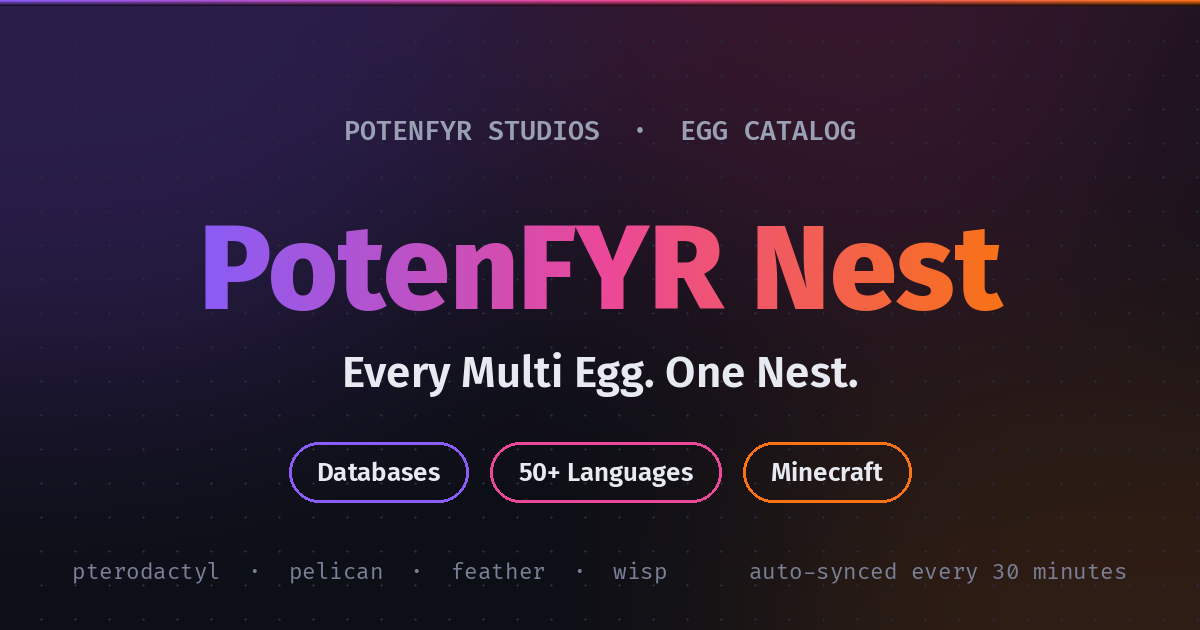
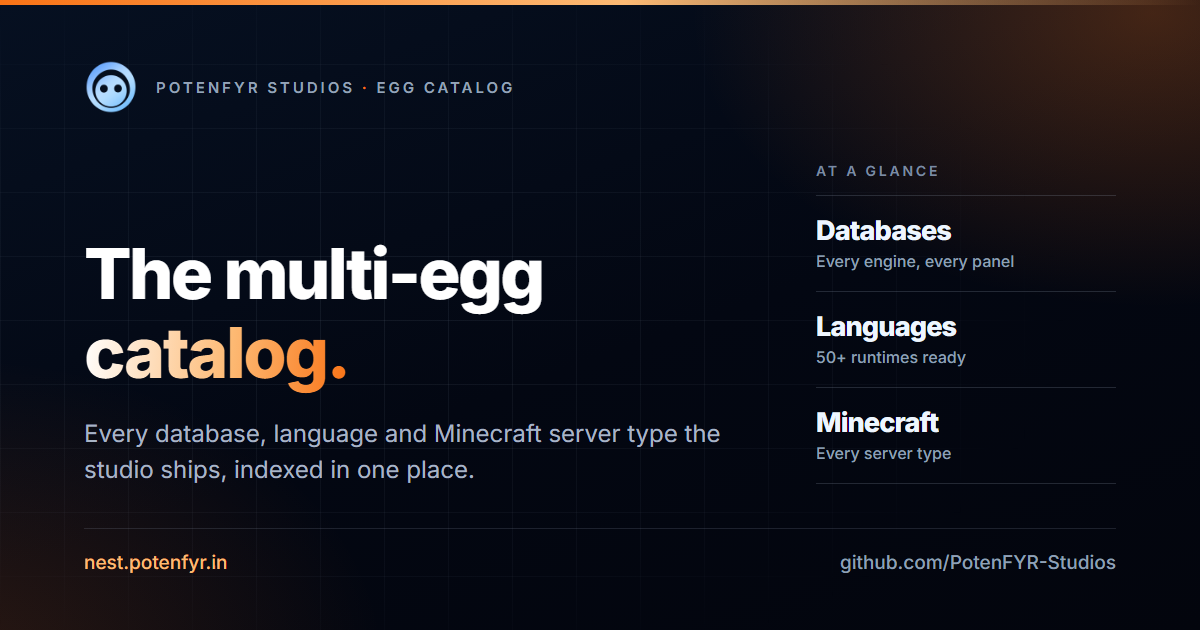
feat(site): redesigned OG card rendered from a committed script

diff --git a/scripts/og/card.html b/scripts/og/card.html
@@ -1,0 +1,199 @@
+<!doctype html>
+<html lang="en">
+  <head>
+    <meta charset="utf-8" />
+    <title>potenfyr-nest link preview</title>
+    <!--
+      Shared template for PotenFYR Studios project OG cards.
+      Edit only the CONFIG block below; the layout stays identical across the org
+      so every project's link preview reads as one family.
+      Render with: bun run og:image  (scripts/og/build-og.mjs)
+    -->
+    <link rel="preconnect" href="https://fonts.googleapis.com" />
+    <link rel="preconnect" href="https://fonts.gstatic.com" crossorigin />
+    <link
+      href="https://fonts.googleapis.com/css2?family=Inter:wght@400;500;600;700;800&display=swap"
+      rel="stylesheet"
+    />
+    <style>
+      /* ---------------- CONFIG ---------------- */
+      :root {
+        --accent: #f97316;         /* project accent, matches the docs site */
+        --accent-soft: #fdba74;    /* lighter tint of --accent */
+      }
+      /* ---------------- /CONFIG --------------- */
+
+      * { box-sizing: border-box; margin: 0; padding: 0; }
+      html, body { width: 1200px; height: 630px; overflow: hidden; }
+      body {
+        font-family: 'Inter', 'Segoe UI', system-ui, sans-serif;
+        background: #030712;
+        color: #fff;
+        -webkit-font-smoothing: antialiased;
+      }
+
+      .card {
+        position: relative;
+        width: 1200px;
+        height: 630px;
+        padding: 60px 84px 56px;
+        display: flex;
+        flex-direction: column;
+        background:
+          radial-gradient(720px 460px at 96% 2%, color-mix(in srgb, var(--accent) 26%, transparent), transparent 64%),
+          radial-gradient(700px 500px at -4% 106%, color-mix(in srgb, var(--accent) 16%, transparent), transparent 62%),
+          linear-gradient(160deg, #061021 0%, #030712 54%, #03050d 100%);
+        overflow: hidden;
+      }
+
+      .grid {
+        position: absolute;
+        inset: 0;
+        background-image:
+          linear-gradient(to right, rgba(148, 163, 184, 0.10) 1px, transparent 1px),
+          linear-gradient(to bottom, rgba(148, 163, 184, 0.10) 1px, transparent 1px);
+        background-size: 64px 64px;
+        -webkit-mask-image: radial-gradient(780px 430px at 32% 50%, #000 0%, rgba(0, 0, 0, 0.5) 60%, transparent 88%);
+        mask-image: radial-gradient(780px 430px at 32% 50%, #000 0%, rgba(0, 0, 0, 0.5) 60%, transparent 88%);
+      }
+
+      .edge {
+        position: absolute;
+        top: 0; left: 0; right: 0;
+        height: 5px;
+        background: linear-gradient(90deg, var(--accent) 0%, var(--accent-soft) 52%, transparent 100%);
+      }
+
+      .content { position: relative; z-index: 2; display: flex; flex-direction: column; height: 100%; }
+
+      .lockup { display: flex; align-items: center; gap: 18px; }
+      .lockup img { width: 54px; height: 54px; display: block; }
+      .lockup .studio {
+        font-size: 15px;
+        font-weight: 600;
+        letter-spacing: 0.2em;
+        text-transform: uppercase;
+        color: #94a3b8;
+      }
+      .lockup .studio em { font-style: normal; color: var(--accent); }
+
+      .body {
+        margin-top: auto;
+        display: flex;
+        align-items: flex-end;
+        justify-content: space-between;
+        gap: 54px;
+      }
+      .copy { max-width: 720px; }
+
+      h1 {
+        font-size: 70px;
+        line-height: 1.12;
+        font-weight: 800;
+        letter-spacing: -0.035em;
+      }
+      h1 .grad {
+        background: linear-gradient(96deg, #ffffff 0%, var(--accent-soft) 55%, var(--accent) 100%);
+        -webkit-background-clip: text;
+        background-clip: text;
+        -webkit-text-fill-color: transparent;
+      }
+
+      p.lede {
+        margin-top: 24px;
+        font-size: 24px;
+        line-height: 1.5;
+        color: #a8b4c6;
+      }
+
+      .facts { display: flex; flex-direction: column; min-width: 300px; padding-bottom: 4px; }
+      .facts .eyebrow {
+        font-size: 14px;
+        font-weight: 600;
+        letter-spacing: 0.2em;
+        text-transform: uppercase;
+        color: #7c8ba1;
+        padding-bottom: 16px;
+      }
+      .fact {
+        border-top: 1px solid rgba(148, 163, 184, 0.22);
+        padding: 18px 0 20px;
+      }
+      .fact.last { border-bottom: 1px solid rgba(148, 163, 184, 0.22); }
+      .fact b {
+        display: block;
+        font-size: 27px;
+        font-weight: 800;
+        letter-spacing: -0.03em;
+        color: #eef6ff;
+      }
+      .fact span {
+        display: block;
+        margin-top: 4px;
+        font-size: 16px;
+        font-weight: 500;
+        color: #8fa0b6;
+      }
+
+      .foot {
+        margin-top: 40px;
+        display: flex;
+        align-items: center;
+        justify-content: space-between;
+        border-top: 1px solid rgba(148, 163, 184, 0.18);
+        padding-top: 22px;
+        font-size: 19px;
+        font-weight: 500;
+      }
+      .foot .domain { color: var(--accent-soft); }
+      .foot .org { color: #8fa0b6; }
+    </style>
+  </head>
+  <body>
+    <div class="card">
+      <div class="grid"></div>
+      <div class="edge"></div>
+
+      <div class="content">
+        <div class="lockup">
+          <img src="../../public/favicon.png" alt="" />
+          <div class="studio">PotenFYR Studios <em>·</em> Egg Catalog</div>
+        </div>
+
+        <div class="body">
+          <div class="copy">
+            <h1>
+              The multi-egg<br />
+              <span class="grad">catalog.</span>
+            </h1>
+            <p class="lede">
+              Every database, language and Minecraft server type the<br />
+              studio ships, indexed in one place.
+            </p>
+          </div>
+
+          <div class="facts">
+            <div class="eyebrow">At a glance</div>
+            <div class="fact">
+              <b>Databases</b>
+              <span>Every engine, every panel</span>
+            </div>
+            <div class="fact">
+              <b>Languages</b>
+              <span>50+ runtimes ready</span>
+            </div>
+            <div class="fact last">
+              <b>Minecraft</b>
+              <span>Every server type</span>
+            </div>
+          </div>
+        </div>
+
+        <div class="foot">
+          <div class="domain">nest.potenfyr.in</div>
+          <div class="org">github.com/PotenFYR-Studios</div>
+        </div>
+      </div>
+    </div>
+  </body>
+</html>
